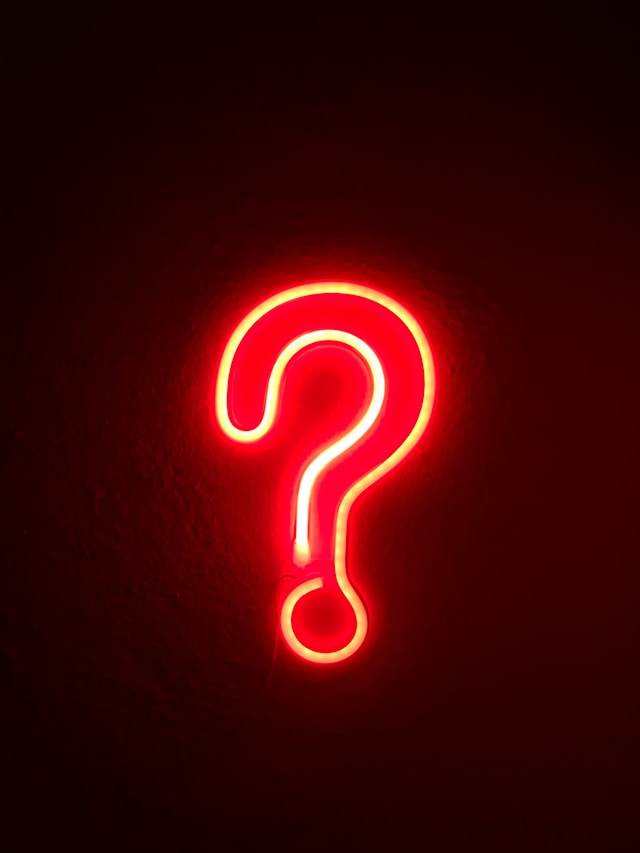
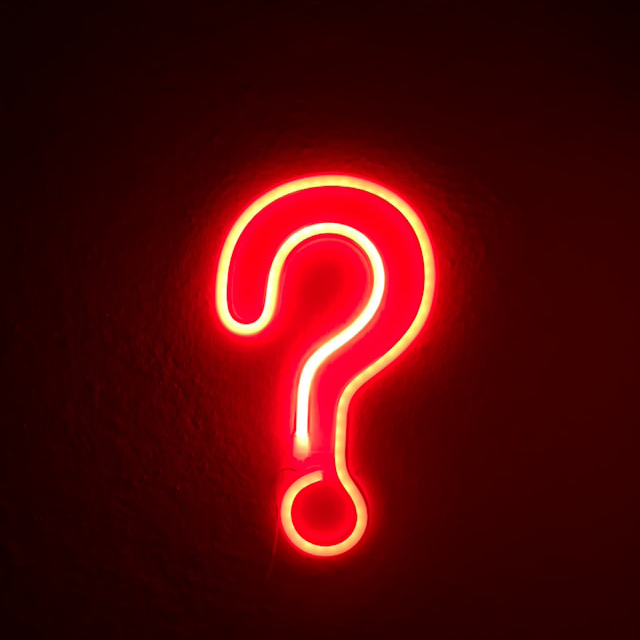
Event images are now square

Changed region(s): [[0.2812, 0.1875, 0.75, 0.9688]]

diff --git a/js/eventClass.js b/js/eventClass.js
@@ -28,7 +28,11 @@ class BCEvent {
 		
 		const imageAnchor = document.createElement("a");
 		imageAnchor.href = eventLink;
+		imageAnchor.className = "ratio ratio-1x1";
 		container.appendChild(imageAnchor);
+		
+		// const imageDiv = document.createElement("div");
+		// imageAnchor.appendChild(imageDiv);
 		
 		const image = document.createElement("img");
 		image.src = "img/"+this.imageFile;
